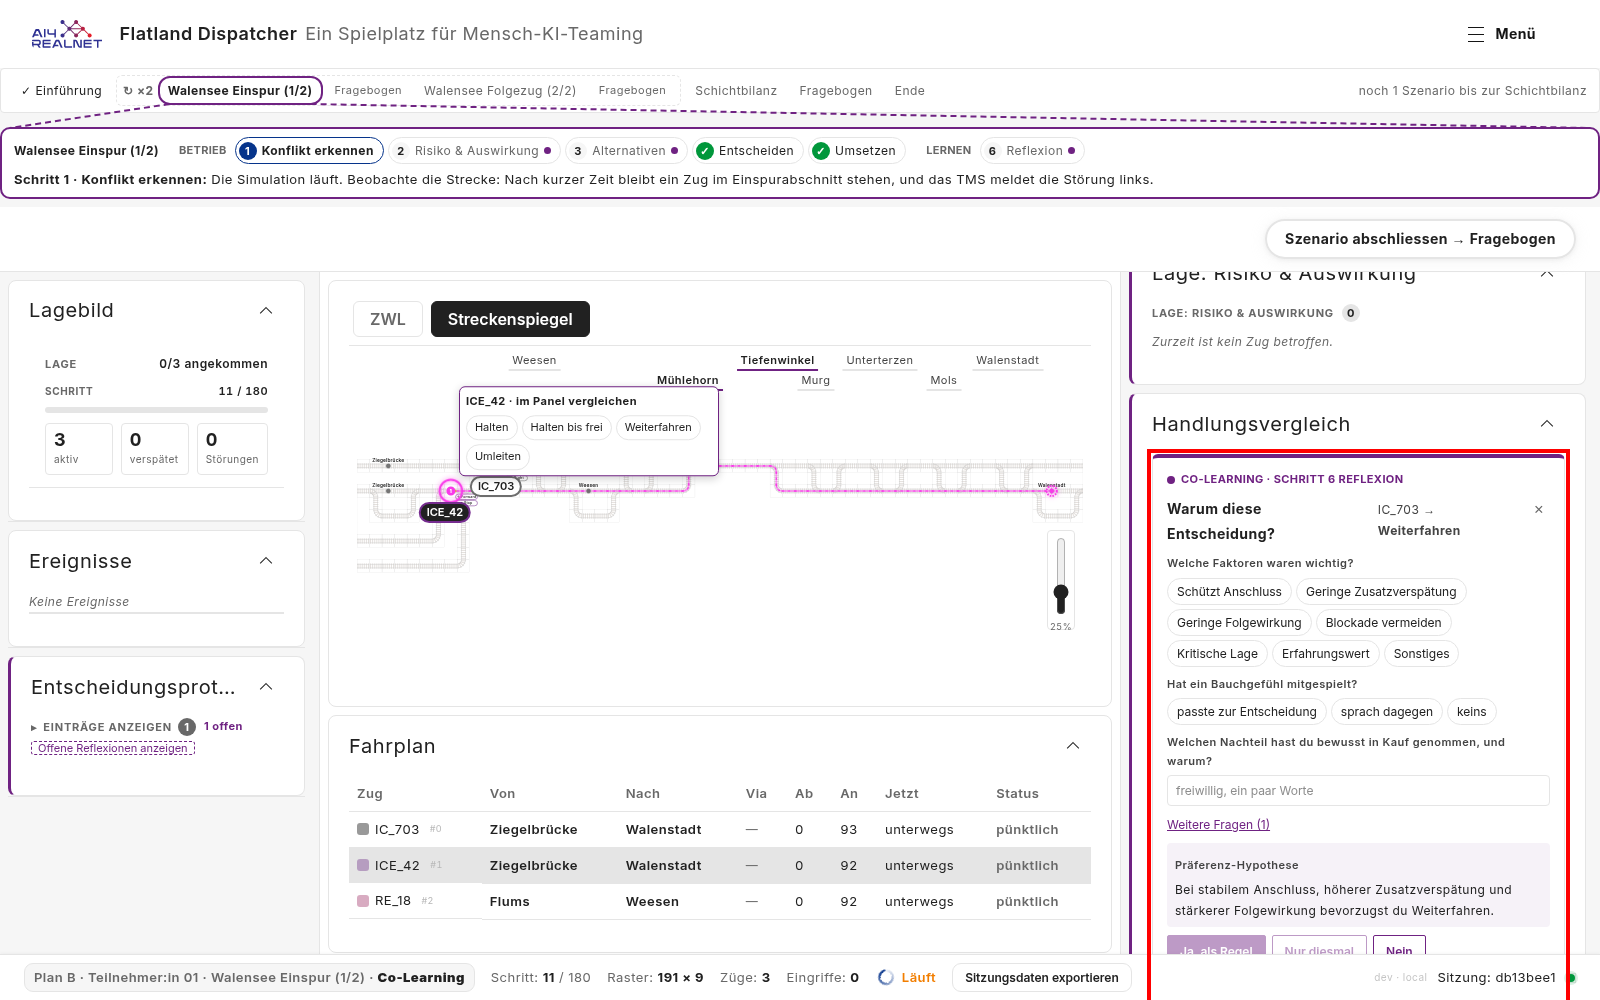
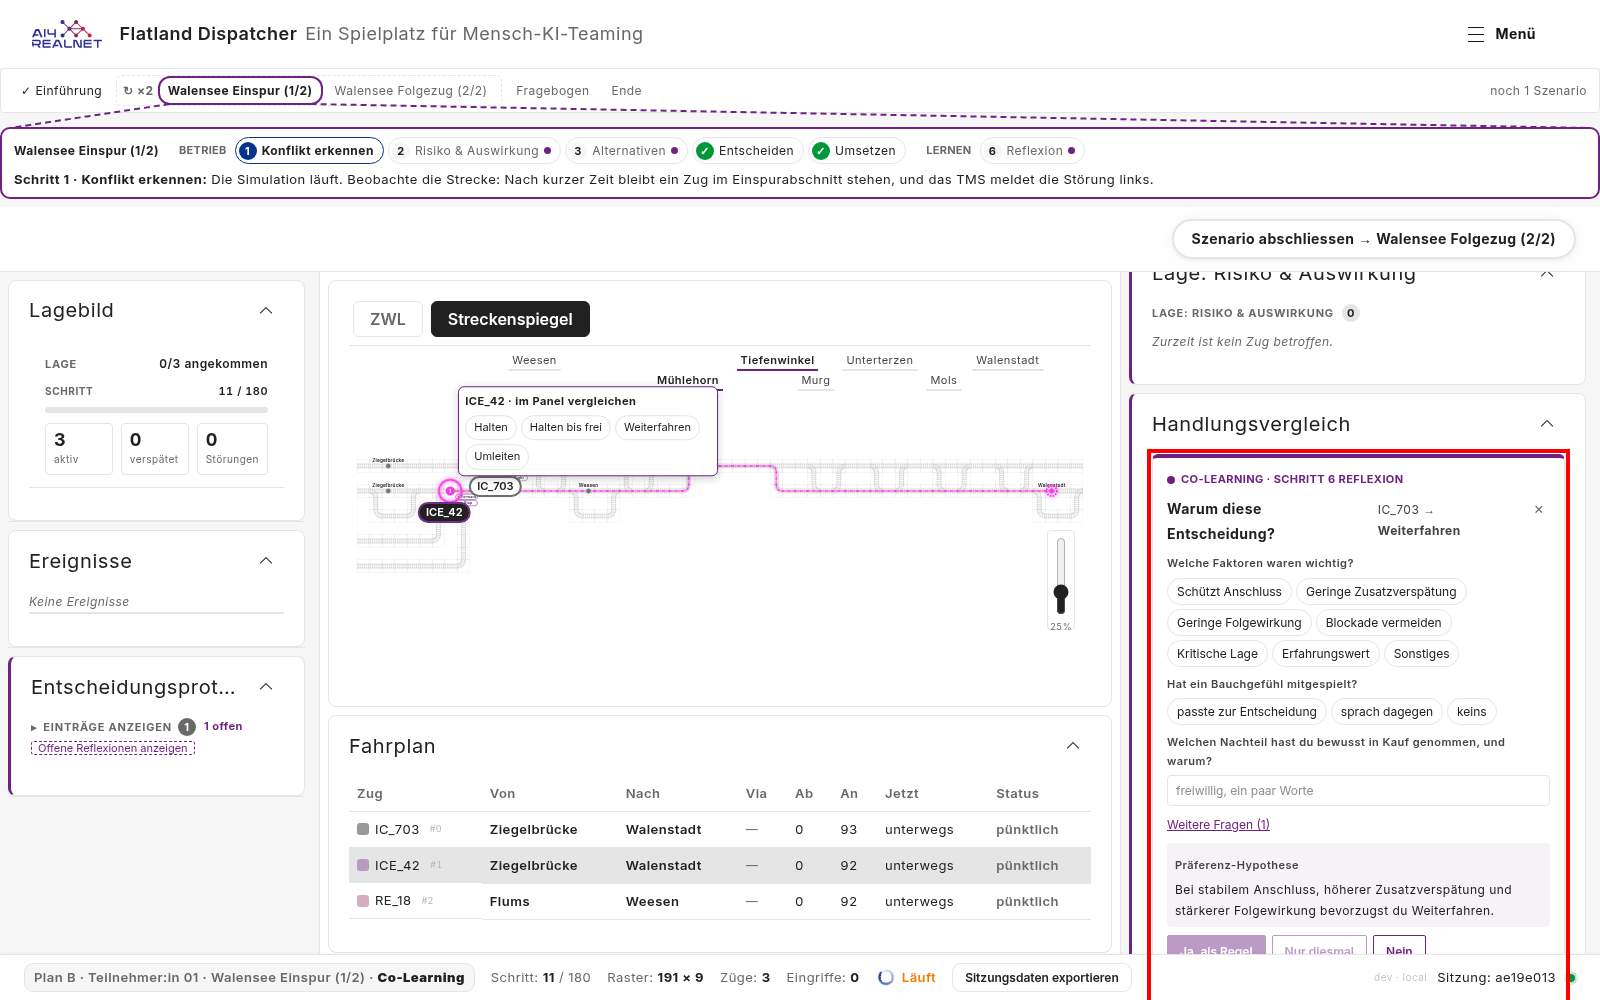
docs(plans): retake the Q11 picture of #160 after #174.
The picture showed Plan B's stepper and finish button from before #174. The
recording in the table below it stays the one made before S11.

diff --git a/docs/plans/reflection-inline.md b/docs/plans/reflection-inline.md
@@ -1140,7 +1140,9 @@ train while the reflection waits, answers it, and switches back.
 
 The participant works on the Streckenspiegel and in the Fahrplan (ICE_42
 selected); the reflection waits in «Handlungsvergleich» (red frame). The log
-calls all of this "reflection".
+calls all of this "reflection". The picture is retaken on fe65e1a, with
+Plan B's stepper and finish button after #174; the table is the recording
+from f977f7c, before S11.
 
 | Step | What the participant did | Screen log today (`view_enter`) | Click `view` today | a) / b) on Plan B | c) |
 |---|---|---|---|---|---|
